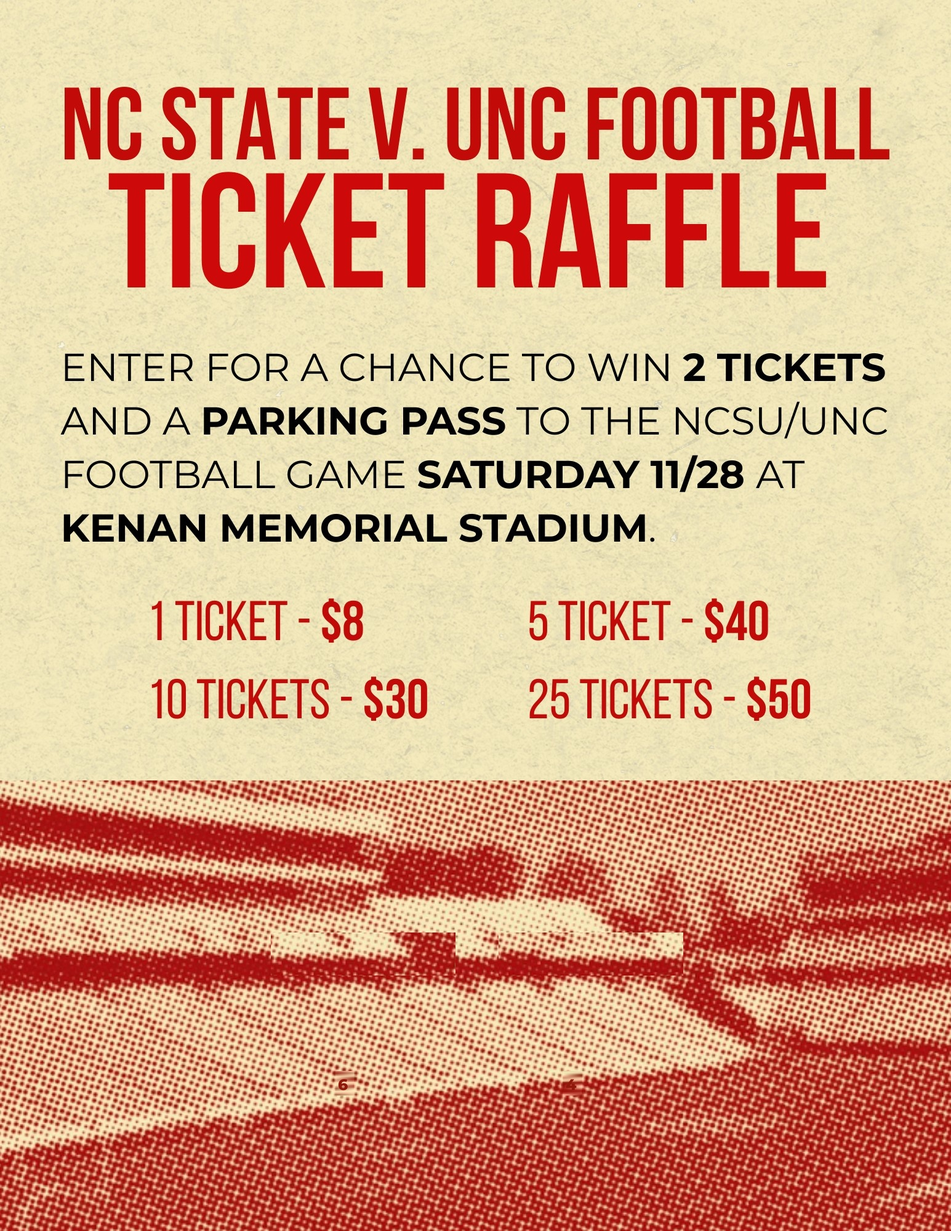
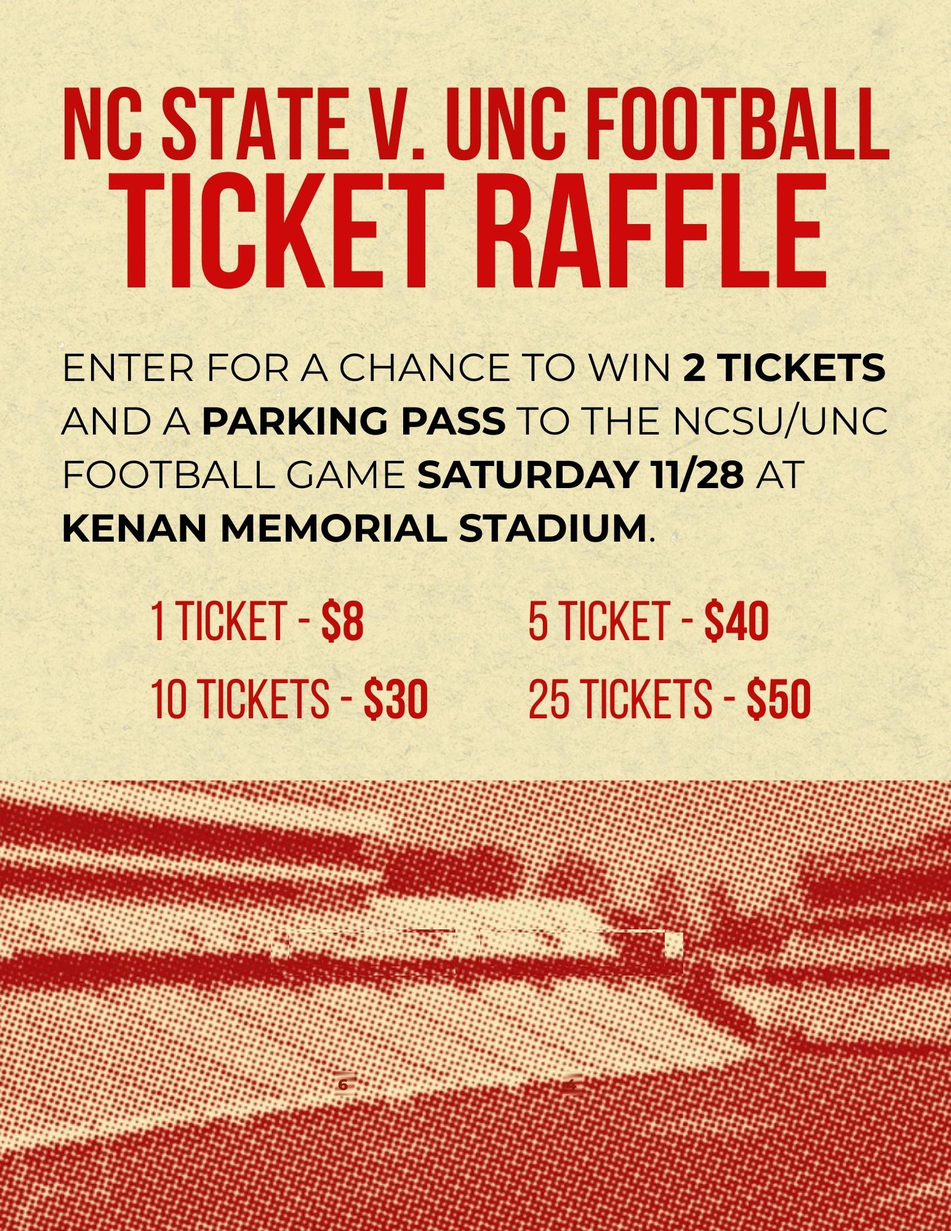
Swap 5 TICKETS and 10 TICKETS header pills on flyer graphic

Changed region(s): [[0.2796, 0.744, 0.7146, 0.806]]

diff --git a/src/components/IcePackApp.tsx b/src/components/IcePackApp.tsx
@@ -5247,11 +5247,11 @@ export default function IcePackApp({ initialTab = "home", initialSubTab = "playe
               {/* Left Column: Official Poster Graphic */}
               <div className="lg:col-span-5 bg-stone-100 rounded-2xl overflow-hidden border border-stone-200 shadow-md">
                 <img
-                  src="/raffle/unc-ncsu-football-raffle-v2.webp"
+                  src="/raffle/unc-ncsu-football-raffle-v3.webp"
                   alt="UNC vs NCSU Football Ticket Raffle Official Poster"
                   className="w-full h-auto object-cover hover:scale-[1.01] transition duration-300"
                   onError={(e: any) => {
-                    e.target.src = "/raffle/unc-ncsu-football-raffle-v2.jpg";
+                    e.target.src = "/raffle/unc-ncsu-football-raffle-v3.jpg";
                   }}
                 />
                 <div className="p-4 bg-stone-900 text-white text-center">
